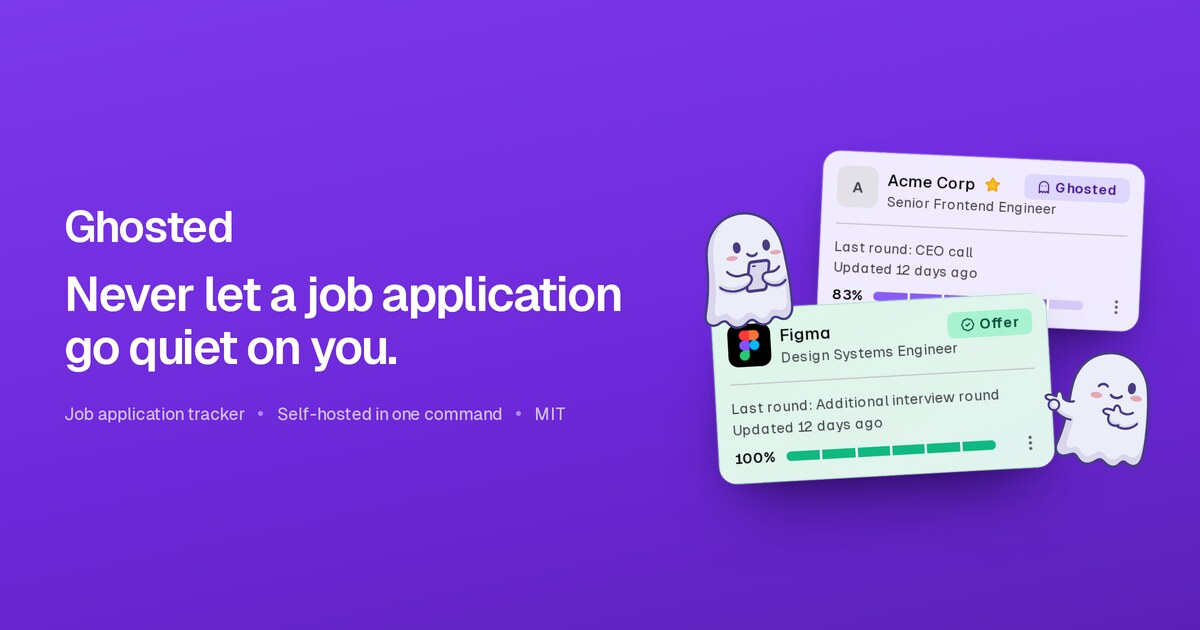
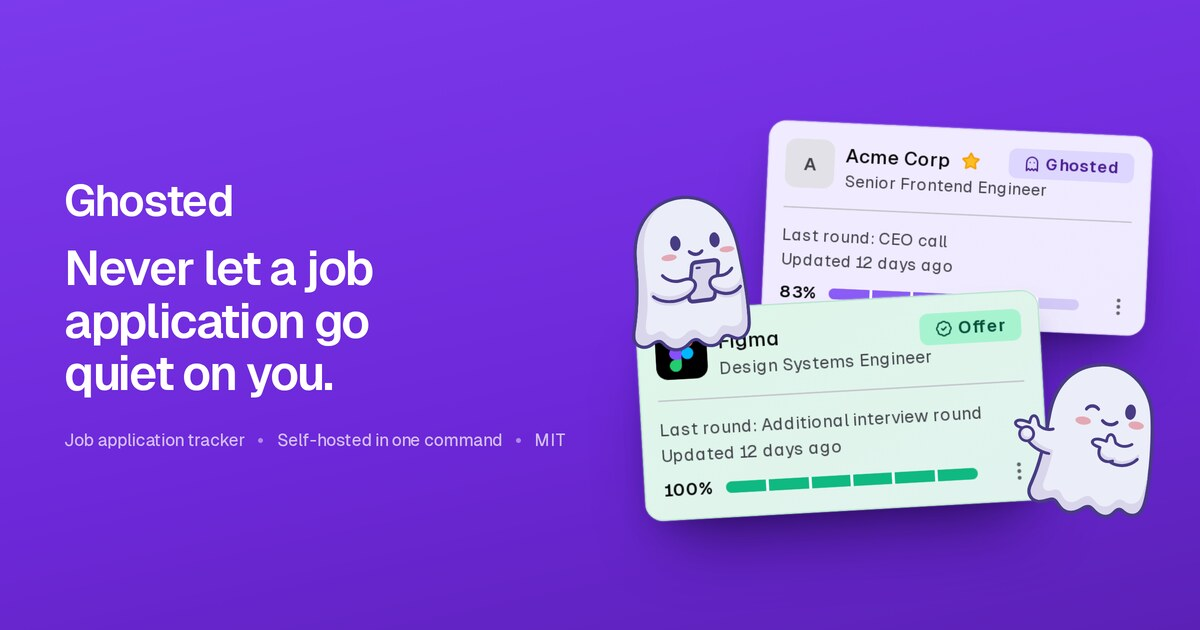
docs(readme): the social card borrows the illustration block verbatim
Copying the block rather than scaling it: the pile, both cards and both ghosts use
the same rules on both canvases, so every position inside the illustration is
identical and only the canvases differ. The social column that holds it is now
the pile's own width, which is what keeps it from being clipped at the edge.

The alternative — proportionally smaller on the smaller canvas — meant two sets of
numbers to keep in step, which is how the last two rounds drifted apart.

Changed region(s): [[0.0308, 0.181, 0.9867, 0.8746], [0.8633, 0.4524, 0.8942, 0.4825]]

diff --git a/docs/assets/banner/banner.html b/docs/assets/banner/banner.html
@@ -44,7 +44,7 @@
     grid-template-columns: minmax(0, 1fr) 640px;
     gap: 24px;
   }
-  .social .content { grid-template-columns: minmax(0, 1fr) 500px; padding-left: 64px; }
+  .social .content { grid-template-columns: minmax(0, 1fr) 560px; padding-left: 64px; }
 
   /* --- left: what it is --------------------------------------------------- */
   .brand span {
@@ -80,7 +80,6 @@
     transform: translate(-50%, -50%);
     width: 560px; height: 474px;
   }
-  .social .pile { width: 470px; height: 400px; }
 
   .card {
     position: absolute;
@@ -91,14 +90,10 @@
   /* The cards lean against each other; the ghosts stand in front of them. */
   .card.ghosted { width: 384px; left: 125px; top: 50px; transform: rotate(2.6deg); }
   .card.offer   { width: 404px; left: 0;    top: 222px; transform: rotate(-3.2deg); }
-  .social .card.ghosted { width: 322px; left: 105px; top: 42px; transform: rotate(2.6deg); }
-  .social .card.offer   { width: 336px; left: 0;     top: 186px; transform: rotate(-3.2deg); }
 
   .mascot { position: absolute; z-index: 2; }
   .mascot.happy       { width: 200px; left: -55px; top: 95px; transform: rotate(-7deg); }
   .mascot.finger-guns { width: 200px; right: 16px;  top: 260px; transform: rotate(7deg);}
-  .social .mascot.happy       { width: 150px; left: -46px; top: 80px; transform: rotate(-7deg); }
-  .social .mascot.finger-guns { width: 150px; right: 13px; top: 218px; transform: rotate(7deg); }
 </style>
 </head>
 <body>
